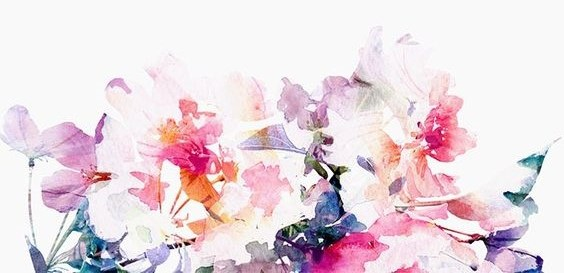
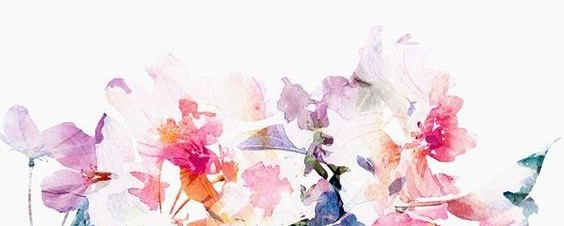
Background e tabela - conserto

diff --git a/index.html b/index.html
@@ -29,11 +29,11 @@
 		</ol>
 		<p>Justo facilisi netus velit, vel pede, dapibus non placerat, risus vestibulum venenatis, consequat sed nulla. Lacinia aptent lorem mauris maecenas sed tristique. Pede sed lectus. Molestie lacus aliquam nam, non justo id netus mus nisl, curabitur convallis ad aliquet posuere est, ornare lectus orci at, egestas a. Nulla cum non, semper conubia vel aliquam.</p>
 		<table>
-			<th>
-				<td>Primeiro Nome</td>
-				<td>Segundo Nome</td>
-				<td>Economias</td>
-			</th>
+			<tr>
+				<th>Primeiro Nome</th>
+				<th>Segundo Nome</th>
+				<th>Economias</th>
+			</tr>
 			<tr>
 				<td>Bianca</td>
 				<td>Natália</td>
@@ -51,6 +51,8 @@
 			</tr>
 		</table>
 		<p>Aliquam quisque dignissim id massa, tellus ipsum eget urna eget cras. Convallis tempus adipiscing irure aliquam maecenas et, ipsum et porttitor aliquam rutrum at est, dui phasellus lobortis lorem. Justo ullamcorper vestibulum pulvinar sed magna. Nibh eleifend nunc odio duis. Iaculis semper sed imperdiet, tellus etiam risus enim hendrerit ut lobortis, non dictumst malesuada, velit urna eu at elit sit eros, ligula ipsum suscipit. Tellus vivamus, sodales nonummy, et fusce amet a nulla, nullam molestie ullamcorper adipiscing ac sed. Etiam aliquam integer nibh aliquam accumsan nullam, id in, vestibulum tellus sit cum sem, facilis urna libero erat. Augue amet. Turpis ac fermentum ligula. Convallis est eget integer, ultricies proin dictum amet, orci eget aenean vivamus quam mauris, massa placerat lacinia massa fames feugiat mauris. Feugiat id commodo sagittis maecenas arcu est, eleifend egestas congue neque. Convallis auctor feugiat mi, tortor mi libero euismod egestas, pede tincidunt, neque hymenaeos aliquam tempor turpis risus.</p>
+		<p>Sed sollicitudin id vitae sapien ante ipsum, proin nec neque tristique, in ac mattis amet urna vitae et. Aliquam sed aenean ac. Nam gravida, at et non pulvinar orci eget, ut curabitur vitae mollis interdum, amet amet sed erat, penatibus quisque at. Adipiscing fusce suspendisse eget in platea, dictum velit eget urna nec, leo imperdiet vehicula id interdum facilisi ac, mattis eget ut. Etiam ac iaculis ante quis nec aliquam, magnis euismod mauris id duis luctus, mauris nascetur aenean nulla consequat fusce, amet tristique donec.</p>
+		<p>Facilis vestibulum pharetra, leo erat maecenas justo. In integer tincidunt volutpat quam porttitor arcu, elit vel lacus massa interdum, in nec magna elit nisl in fermentum, orci vel molestie ante felis et nunc, vestibulum mi varius nulla in vel. Ipsum pellentesque nam phasellus quis, vestibulum lacus ultrices congue, nulla proin sed, at placerat vulputate wisi at ac, ante sed ligula. Ac ultricies vestibulum, sem est nunc, rhoncus et ut pede nullam velit rhoncus, pede mauris in metus ante. Urna quam erat, cursus wisi sit tortor tincidunt eget donec, congue nam justo aliquet augue faucibus. Pede nullam tellus lacus adipiscing, amet laoreet, massa nec lectus posuere massa donec, volutpat venenatis massa rhoncus orci, orci ipsum faucibus placerat ultrices amet. Ut posuere arcu morbi, arcu vestibulum commodo sed dui et, accumsan feugiat venenatis arcu, sollicitudin malesuada tempor.</p>
 	</article>
 	<br>
 	<footer>

diff --git a/index.css b/index.css
@@ -17,7 +17,9 @@ body{
 	font-weight: normal;
 	/*font-weight: bold;*/
 	/*background-attachment: fixed;*/
-	background: thistle url("1.jpg") repeat-x fixed top;
+	background: url("1.jpg") repeat-x fixed top,
+				url("1-1.jpg") repeat-x fixed bottom;
+	background-color: #f9f9f9;
 
 	/*ORDEM:
 	background-color
@@ -49,7 +51,13 @@ article ol{
 	text-align: left;
 	list-style: upper-roman inside url("pseudo-element-bullet-featured.png");
 }
-table th, tr td{
+table{
+	text-indent: 0;
+}
+table, th, td{
+	border: solid 1px black;
+	border-collapse: collapse;
+}
 	
 }
 nav{
@@ -89,9 +97,6 @@ nav ul a:visited{
 }
 nav ul a:active{
 	color: #531a67;
-}
-p#um{
-	display: inline;
 }
 /*
 border-width: dotted solid double dashed
